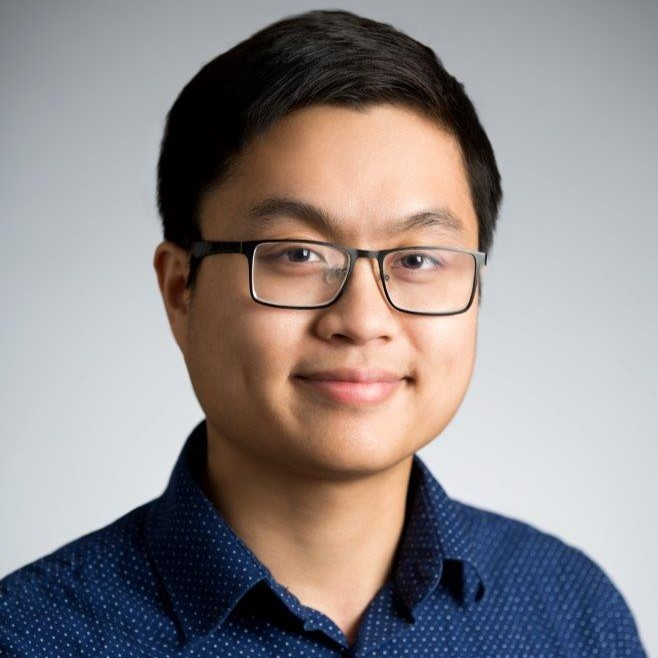
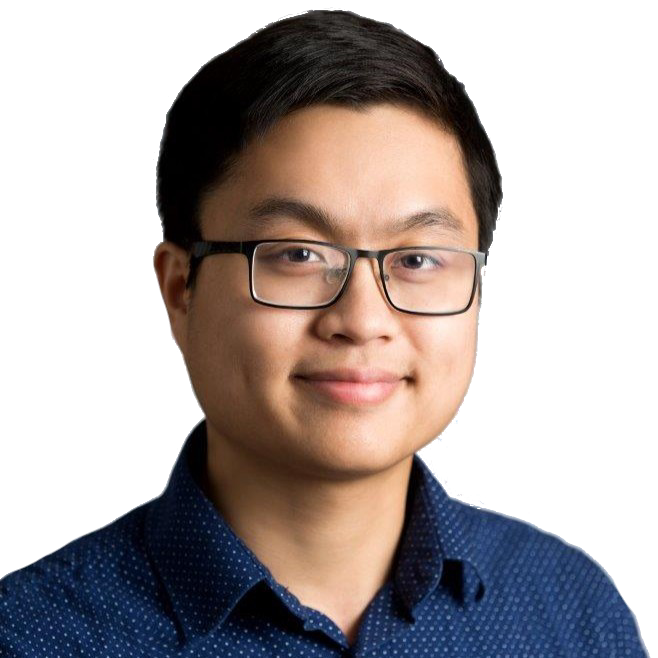
Visual Changes
Updated files, css, for more simpler design

diff --git a/index.html b/index.html
@@ -9,29 +9,29 @@
 	<link rel="stylesheet" href="Styles/style.css" media="screen"/>
     <link rel="icon" href="./favicon.ico" type="image/x-icon">
   </head>
-  
-  
+
+
   <body>
     <main>
-		
+
 		<center>
 			<img src="Images/johnnguyentran.jpeg" class="circlePortrait" alt="" style="max-width:15%;height:auto;"/>
 		</center>
-		
+
 		<h1><b><center>Hello, I'm John - an IT Professional</center></b></h1>
-		
+
 		<center>
-			<h2>System Admin @ <a href="https://www.edwardrose.com" target="_blank">Edward Rose & Sons</a></h2>
+			<h2>System Administrator @ <a href="https://www.edwardrose.com" target="_blank">Edward Rose & Sons</a></h2>
 		</center>
-		
-		
+
+
 		<h3><center>Bloomfield Hills, MI</center></h3>
-		
-		
+
+
 		<center>
 			<div class="container">
 				<div>
-					
+
 					<a href="https://www.facebook.com/john.n.nguyentran/" target="_blank">
 						<img src="Images/logoColorFacebook.png" class="circle" alt="Facebook"
 						 onmouseover="this.src='Images/logoBlackFacebook.png';"
@@ -50,23 +50,23 @@
 						 onmouseout="this.src='Images/logoColorInstagram.png';"
 					/>
 					</a>
-					<a href="https://www.linkedin.com/in/john-nguyen-tran/" target="_blank">
+					<a href="https://www.linkedin.com/in/johnnguyentran/" target="_blank">
 						<img src="Images/logoColorLinkedIn.png" class="circle" alt="LinkedIn"
 						 onmouseover="this.src='Images/logoBlackLinkedIn.png';"
 						 onmouseout="this.src='Images/logoColorLinkedIn.png';"
 					/>
 					</a>
 				</div>
-		
+
 			</div>
 		</center>
-		
-		
-	
 
-		
+
+
+
+
     </main>
   </body>
-  
-  
+
+
 </html>

diff --git a/Styles/style.css b/Styles/style.css
@@ -1,7 +1,4 @@
-@font-face {
-	font-family: "KaushanScript-Regular";
-	src: url("../Fonts/kaushan-script/KaushanScript-Regular.otf");
-}
+
 @font-face {
 	font-family: "Exo-Expanded";
 	src: url("../Fonts/Exo_Expanded/Exo2-ExtraBoldExpanded.otf");
@@ -10,19 +7,12 @@
 
 { margin: 0; padding: 0; }
 
-html { 
-	background: url(../Images/wallpaper.jpg) no-repeat center center fixed; 
-	-webkit-background-size: cover;
-	-moz-background-size: cover;
-	-o-background-size: cover;
-	background-size: cover;
-}
 
-	
+
 h1{
 	color: white;
 	text-shadow: -1px 0 black, 0 1px black, 1px 0 black, 0 -1px black;
-	font-family: "KaushanScript-Regular";
+	font-family: "Exo-Expanded", "Exo2-ExtraBoldExpanded";
 }
 h2{
 	color: white;
@@ -41,12 +31,12 @@ img{
 
 .circlePortrait{
 	border-radius:50%;
-	max-height: 25%;
-	max-width: 25%;
-	min-height: 25%;
-	min-width: 25%;
+	max-height: 10%;
+	max-width: 10%;
+	min-height: 10%;
+	min-width: 10%;
 	margin-top: 25px;
-	
+
 }
 
 .circle{
@@ -64,9 +54,8 @@ img{
 	justify-content: center;
 	height: 65%;
 	width: 65%;
-	border: 1px solid black;
+	border: 2px solid black;
 	border-radius: 25px;
-	background: linear-gradient(#E1E1E1, #E1E1E1);
 }
 
 a{
